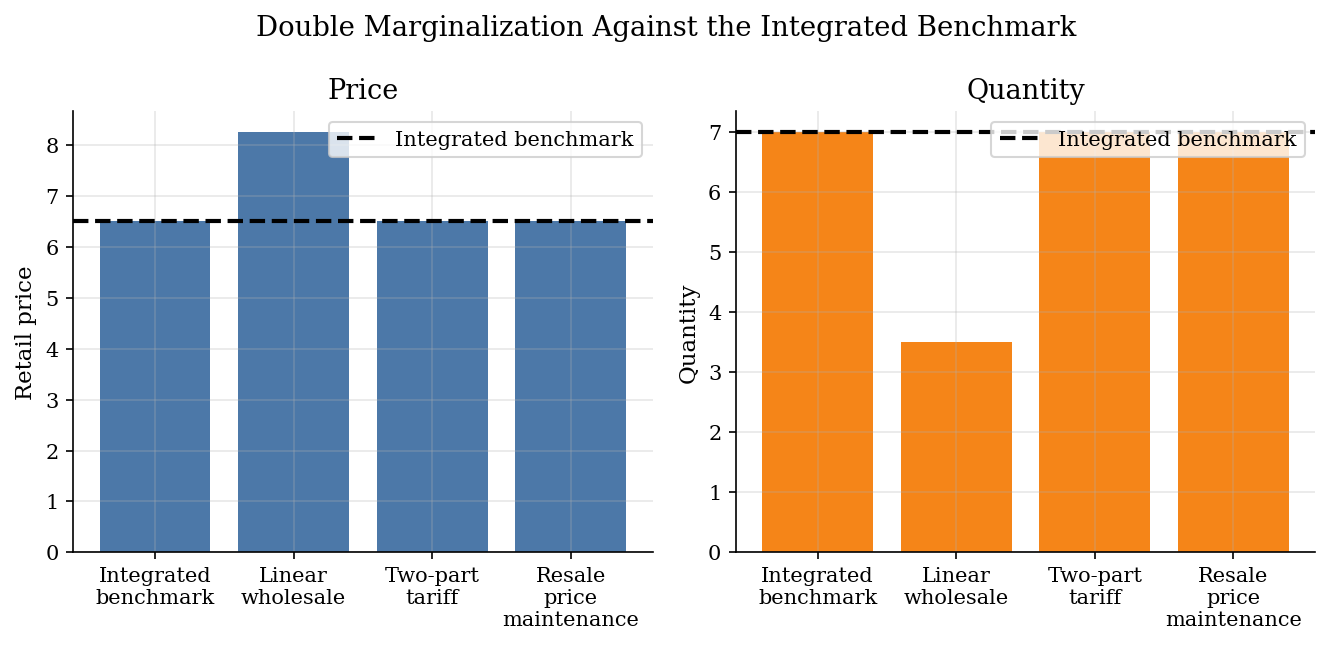
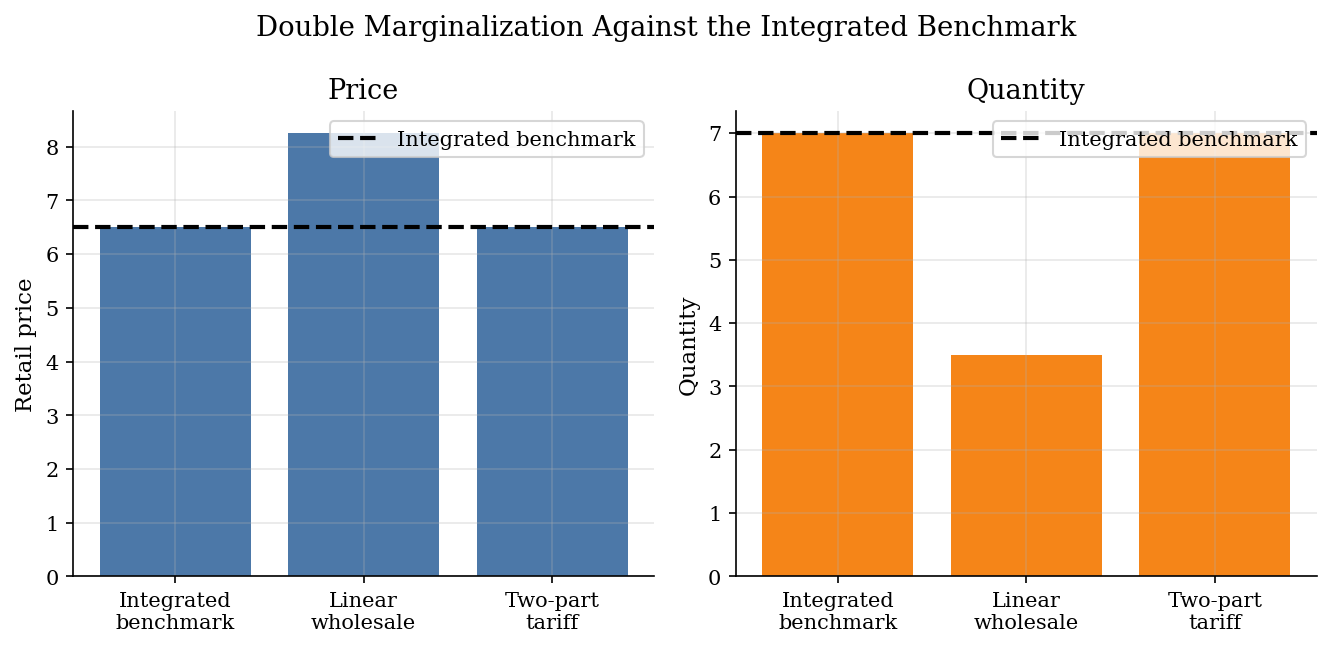
Cut vertical relationships tutorial

diff --git a/industrial-organization/vertical-relationships/run.py b/industrial-organization/vertical-relationships/run.py
@@ -58,7 +58,6 @@ def solve_contracts(a: float, b: float, cm: float, cr: float) -> pd.DataFrame:
         "Integrated benchmark": outcome(monopoly_price, cm, cm, cr, a, b),
         "Linear wholesale": outcome(retail_dm, wholesale_dm, cm, cr, a, b),
         "Two-part tariff": two_part,
-        "Resale price maintenance": outcome(monopoly_price, wholesale_dm, cm, cr, a, b),
     }
 
     rows = []
@@ -98,59 +97,53 @@ def main() -> None:
     )
 
     report.add_overview(
-        "A manufacturer often sells through an independent retailer. The manufacturer "
-        "chooses wholesale terms, the retailer chooses the shelf price, and consumers "
-        "respond to the final price. Both firms may prefer the channel to behave like "
-        "one monopolist, but a linear wholesale price puts the upstream markup inside "
-        "the retailer's marginal cost. The retailer then adds its own markup, and the "
-        "channel sells too little.\n\n"
-        "The example keeps demand linear so the contract comparison stays visible. We "
-        "compute the integrated benchmark, solve the manufacturer-retailer game by "
-        "backward induction, and then evaluate contracts that separate marginal "
-        "incentives from profit transfers. A two-part tariff restores the retail "
-        "pricing incentive with a low per-unit price and uses a fixed fee to allocate "
-        "profit. Resale price maintenance reaches the same retail price by controlling "
-        "the downstream choice directly."
+        "A manufacturer sells through an independent retailer. The manufacturer sets "
+        "wholesale terms. The retailer sets the shelf price. Consumers buy from the "
+        "retailer.\n\n"
+        "The object is double marginalization. A linear wholesale price makes the "
+        "retailer treat the upstream markup as marginal cost. The retailer then adds "
+        "its own markup, so the channel charges too much and sells too little.\n\n"
+        "The computation solves the integrated channel and the separated game. "
+        "Backward induction gives the wholesale price, retail price, quantity, and "
+        "profits under each contract."
     )
 
     report.add_equations(r"""
-Let demand be summarized by the linear quantity rule
+Demand follows
 $$q(p)=a-bp,\qquad p\leq \bar p\equiv a/b,$$
-where $p$ is the retail price, $a$ is market size, $b$ is the demand slope, and
-$\bar p$ is the choke price. The upstream marginal cost is $c_M$ and the
-retailer's own marginal selling cost is $c_R$.
+where $p$ is the retail price. The choke price is $\bar p$. Costs are $c_M$
+upstream and $c_R$ downstream.
 
-The integrated channel chooses $p$ to maximize
+The integrated channel solves
 $$\Pi^I(p)=(p-c_M-c_R)q(p),$$
 so the joint-profit price is
 $$p^I=\frac{\bar p+c_M+c_R}{2}.$$
 
-Under a linear wholesale contract, the manufacturer sets a per-unit wholesale
-price $w$ and the retailer solves
+Under a linear wholesale price $w$, the retailer solves
 $$\max_p\ (p-w-c_R)q(p).$$
-The retailer's best response is
+Its best response is
 $$p_R(w)=\frac{\bar p+w+c_R}{2}.$$
 
-The manufacturer anticipates that response and solves
+The manufacturer chooses $w$ while anticipating that response:
 $$\max_w\ (w-c_M)q(p_R(w)),$$
 which gives
 $$w^{DM}=\frac{\bar p-c_R+c_M}{2}.$$
-Because $w^{DM}>c_M$, the retailer prices as if marginal cost is higher than
-the true channel cost.
 
-A two-part tariff replaces the high marginal wholesale price with
+Because $w^{DM}>c_M$, the retailer acts as if marginal cost is too high.
+
+A two-part tariff sets
 $$w^{TPT}=c_M$$
-and lets the fixed fee
+and uses the fixed fee
 $$F=(p^I-c_M-c_R)q(p^I)$$
-transfer the retailer's operating profit upstream. Resale price maintenance
-sets the retail price at $p^I$ directly; in this calibration the wholesale price
-can then be chosen so the downstream participation constraint binds.
+to transfer operating profit upstream.
+
+The fee changes the profit split without changing the retailer's margin.
 """)
 
     report.add_model_setup(
-        "The calibration is small enough to solve analytically. All dollar amounts "
-        "below are in the same arbitrary unit, and the integrated channel is a "
-        "benchmark rather than an observed ownership structure.\n\n"
+        "The calibration is small enough to solve analytically. Each number uses the "
+        "same unit. The integrated channel is a benchmark, not an ownership "
+        "assumption.\n\n"
         "| Parameter | Value | Description |\n"
         "|-----------|-------|-------------|\n"
         f"| $a$ | {a:.1f} | Demand intercept |\n"
@@ -158,15 +151,12 @@ can then be chosen so the downstream participation constraint binds.
         f"| $\\bar p=a/b$ | {a / b:.1f} | Choke price |\n"
         f"| $c_M$ | {cm:.1f} | Manufacturer marginal cost |\n"
         f"| $c_R$ | {cr:.1f} | Retail service cost |\n"
-        "| Contracts | 4 | Integrated benchmark, linear wholesale, two-part tariff, resale price maintenance |"
+        "| Contracts | 3 | Integrated benchmark, linear wholesale, two-part tariff |"
     )
 
     report.add_solution_method(
-        "Each contract changes which first-order condition determines the retail "
-        "price. The computation solves those conditions in the order the firms move, "
-        "then puts every contract on the same demand curve. That lets the tutorial "
-        "separate an efficiency loss, lower quantity, from a transfer, the fixed fee "
-        "or wholesale margin.\n\n"
+        "The solution follows the order of moves. Each step uses the same demand "
+        "curve, so price and quantity are comparable across contracts.\n\n"
         "```text\n"
         "Inputs: demand q(p)=a-bp, costs c_M and c_R\n"
         "\n"
@@ -180,16 +170,13 @@ can then be chosen so the downstream participation constraint binds.
         "    Manufacturer chooses w_DM to maximize (w-c_M) q(p_R(w))\n"
         "    Evaluate p_R(w_DM), q(p_R(w_DM)), profits, and surplus\n"
         "\n"
-        "3. Contract counterfactuals\n"
+        "3. Two-part tariff\n"
         "    Two-part tariff: set w=c_M, p=p_I, and fixed fee F=(p_I-c_M-c_R)q_I\n"
-        "    Resale price maintenance: set p=p_I and choose w so retailer profit is zero\n"
         "\n"
         "Outputs: contract outcomes and pass-through curve p_R(w)\n"
         "```\n\n"
-        "The integrated solution is the benchmark for the channel's joint-profit "
-        "problem. The backward-induction solution shows how the separated linear "
-        "contract departs from that benchmark, and the counterfactual contracts show "
-        "which part of the departure comes from marginal incentives."
+        "The comparison treats the fixed fee as a transfer. It changes the profit "
+        "split, not the retailer's marginal cost."
     )
 
     x = np.arange(len(df))
@@ -215,31 +202,9 @@ can then be chosen so the downstream participation constraint binds.
         fig1,
         description="The integrated channel charges "
         f"${benchmark['Retail price']:.2f}$ and sells {benchmark['Quantity']:.1f} units. "
-        "The separated linear contract chooses a wholesale price of "
-        f"${linear['Wholesale price']:.2f}$, which pushes the retail price to "
+        "Linear wholesale pricing raises the retail price to "
         f"${linear['Retail price']:.2f}$ and cuts quantity to {linear['Quantity']:.1f}. "
-        "The two-part tariff and resale price maintenance return the retail price to "
-        "the integrated-channel line.",
-    )
-
-    fig2, ax2 = plt.subplots(figsize=(8, 5))
-    ax2.bar(x, df["Consumer surplus"], label="Consumer surplus", color="#54A24B")
-    ax2.bar(x, df["Channel profit"], bottom=df["Consumer surplus"], label="Channel profit", color="#E45756")
-    ax2.axhline(benchmark["Total surplus"], color="black", linestyle="--", label="Integrated total surplus")
-    ax2.set_xticks(x)
-    ax2.set_xticklabels(contract_labels, rotation=0)
-    ax2.set_ylabel("Dollars")
-    ax2.set_title("Surplus Lost When the Channel Under-Sells")
-    ax2.legend()
-    report.add_figure(
-        "figures/surplus-decomposition.png",
-        "Consumer surplus and channel profit by contract",
-        fig2,
-        description="The wholesale margin reallocates profit inside the channel, but "
-        "the welfare loss comes from the smaller quantity sold under the linear "
-        "contract. Once the marginal wholesale price is neutralized, consumer surplus "
-        "and channel profit return to the integrated benchmark in this single-product "
-        "environment.",
+        "The two-part tariff returns price and quantity to the integrated line.",
     )
 
     fig3, axes3 = plt.subplots(1, 2, figsize=(9, 4.2), sharex=True)
@@ -265,10 +230,9 @@ can then be chosen so the downstream participation constraint binds.
         "figures/wholesale-pass-through.png",
         "Retail pass-through as wholesale price changes",
         fig3,
-        description="The pass-through exercise varies only the per-unit wholesale "
-        "price. Moving from $w=c_M$ to $w^{DM}$ traces the double-marginalization "
-        "mechanism: the retailer's best response price rises with perceived marginal "
-        "cost, and the quantity gap opens relative to the integrated benchmark.",
+        description="The wholesale-price sweep varies only $w$. The retailer's best "
+        "response price rises with $w$. At $w^{DM}$, quantity falls below the "
+        "integrated benchmark.",
     )
 
     table = df[
@@ -292,25 +256,20 @@ can then be chosen so the downstream participation constraint binds.
         "tables/vertical-contracts.csv",
         "Contract outcomes",
         table,
-        description="The table separates efficiency from incidence. Channel profit and "
-        "consumer surplus describe the real allocation. Manufacturer and retailer "
-        "profits show how each contract allocates that profit. For the integrated "
-        "benchmark, the internal split is only a transfer convention.",
+        description="The table reports the same comparison in numbers. Channel profit "
+        "and consumer surplus fall only when quantity falls. The fixed fee moves "
+        "operating profit upstream.",
     )
 
     report.add_takeaway(
-        "Vertical contracts matter because they decide which margins affect the retail "
-        "price. A high wholesale price changes the downstream first-order condition "
-        "and creates a real quantity distortion. A fixed fee moves profit without "
-        "changing the retailer's marginal cost. Nonlinear pricing can remove double "
-        "marginalization while still letting the upstream firm collect the channel's "
-        "profit."
+        "Double marginalization comes from the retailer's perceived marginal cost. "
+        "A high wholesale price raises that cost and lowers quantity. A two-part "
+        "tariff sets $w=c_M$, so the retailer chooses the integrated price. The "
+        "fixed fee then allocates profit."
     )
 
     report.add_references([
         "Tirole, J. (1988). *The Theory of Industrial Organization*. MIT Press.",
-        "Asker, J. (2016). Diagnosing Foreclosure Due to Exclusive Dealing. *Journal of Industrial Economics*, 64(3), 375-410.",
-        "Lecture 7 Slides 2023: Vertical relationships, double marginalization, and restraints.",
     ])
     report.write("README.md")
     print(f"Generated: README.md + {len(report._figures)} figures + {len(report._tables)} tables")

diff --git a/industrial-organization/vertical-relationships/README.md b/industrial-organization/vertical-relationships/README.md
@@ -4,47 +4,47 @@
 
 ## Overview
 
-A manufacturer often sells through an independent retailer. The manufacturer chooses wholesale terms, the retailer chooses the shelf price, and consumers respond to the final price. Both firms may prefer the channel to behave like one monopolist, but a linear wholesale price puts the upstream markup inside the retailer's marginal cost. The retailer then adds its own markup, and the channel sells too little.
+A manufacturer sells through an independent retailer. The manufacturer sets wholesale terms. The retailer sets the shelf price. Consumers buy from the retailer.
 
-The example keeps demand linear so the contract comparison stays visible. We compute the integrated benchmark, solve the manufacturer-retailer game by backward induction, and then evaluate contracts that separate marginal incentives from profit transfers. A two-part tariff restores the retail pricing incentive with a low per-unit price and uses a fixed fee to allocate profit. Resale price maintenance reaches the same retail price by controlling the downstream choice directly.
+The object is double marginalization. A linear wholesale price makes the retailer treat the upstream markup as marginal cost. The retailer then adds its own markup, so the channel charges too much and sells too little.
+
+The computation solves the integrated channel and the separated game. Backward induction gives the wholesale price, retail price, quantity, and profits under each contract.
 
 ## Equations
 
-Let demand be summarized by the linear quantity rule
+Demand follows
 $$q(p)=a-bp,\qquad p\leq \bar p\equiv a/b,$$
-where $p$ is the retail price, $a$ is market size, $b$ is the demand slope, and
-$\bar p$ is the choke price. The upstream marginal cost is $c_M$ and the
-retailer's own marginal selling cost is $c_R$.
+where $p$ is the retail price. The choke price is $\bar p$. Costs are $c_M$
+upstream and $c_R$ downstream.
 
-The integrated channel chooses $p$ to maximize
+The integrated channel solves
 $$\Pi^I(p)=(p-c_M-c_R)q(p),$$
 so the joint-profit price is
 $$p^I=\frac{\bar p+c_M+c_R}{2}.$$
 
-Under a linear wholesale contract, the manufacturer sets a per-unit wholesale
-price $w$ and the retailer solves
+Under a linear wholesale price $w$, the retailer solves
 $$\max_p\ (p-w-c_R)q(p).$$
-The retailer's best response is
+Its best response is
 $$p_R(w)=\frac{\bar p+w+c_R}{2}.$$
 
-The manufacturer anticipates that response and solves
+The manufacturer chooses $w$ while anticipating that response:
 $$\max_w\ (w-c_M)q(p_R(w)),$$
 which gives
 $$w^{DM}=\frac{\bar p-c_R+c_M}{2}.$$
-Because $w^{DM}>c_M$, the retailer prices as if marginal cost is higher than
-the true channel cost.
 
-A two-part tariff replaces the high marginal wholesale price with
+Because $w^{DM}>c_M$, the retailer acts as if marginal cost is too high.
+
+A two-part tariff sets
 $$w^{TPT}=c_M$$
-and lets the fixed fee
+and uses the fixed fee
 $$F=(p^I-c_M-c_R)q(p^I)$$
-transfer the retailer's operating profit upstream. Resale price maintenance
-sets the retail price at $p^I$ directly; in this calibration the wholesale price
-can then be chosen so the downstream participation constraint binds.
+to transfer operating profit upstream.
+
+The fee changes the profit split without changing the retailer's margin.
 
 ## Model Setup
 
-The calibration is small enough to solve analytically. All dollar amounts below are in the same arbitrary unit, and the integrated channel is a benchmark rather than an observed ownership structure.
+The calibration is small enough to solve analytically. Each number uses the same unit. The integrated channel is a benchmark, not an ownership assumption.
 
 | Parameter | Value | Description |
 |-----------|-------|-------------|
@@ -53,11 +53,11 @@ The calibration is small enough to solve analytically. All dollar amounts below 
 | $\bar p=a/b$ | 10.0 | Choke price |
 | $c_M$ | 2.0 | Manufacturer marginal cost |
 | $c_R$ | 1.0 | Retail service cost |
-| Contracts | 4 | Integrated benchmark, linear wholesale, two-part tariff, resale price maintenance |
+| Contracts | 3 | Integrated benchmark, linear wholesale, two-part tariff |
 
 ## Solution Method
 
-Each contract changes which first-order condition determines the retail price. The computation solves those conditions in the order the firms move, then puts every contract on the same demand curve. That lets the tutorial separate an efficiency loss, lower quantity, from a transfer, the fixed fee or wholesale margin.
+The solution follows the order of moves. Each step uses the same demand curve, so price and quantity are comparable across contracts.
 
 ```text
 Inputs: demand q(p)=a-bp, costs c_M and c_R
@@ -72,46 +72,38 @@ Inputs: demand q(p)=a-bp, costs c_M and c_R
     Manufacturer chooses w_DM to maximize (w-c_M) q(p_R(w))
     Evaluate p_R(w_DM), q(p_R(w_DM)), profits, and surplus
 
-3. Contract counterfactuals
+3. Two-part tariff
     Two-part tariff: set w=c_M, p=p_I, and fixed fee F=(p_I-c_M-c_R)q_I
-    Resale price maintenance: set p=p_I and choose w so retailer profit is zero
 
 Outputs: contract outcomes and pass-through curve p_R(w)
 ```
 
-The integrated solution is the benchmark for the channel's joint-profit problem. The backward-induction solution shows how the separated linear contract departs from that benchmark, and the counterfactual contracts show which part of the departure comes from marginal incentives.
+The comparison treats the fixed fee as a transfer. It changes the profit split, not the retailer's marginal cost.
 
 ## Results
 
-The integrated channel charges $6.50$ and sells 7.0 units. The separated linear contract chooses a wholesale price of $5.50$, which pushes the retail price to $8.25$ and cuts quantity to 3.5. The two-part tariff and resale price maintenance return the retail price to the integrated-channel line.
+The integrated channel charges $6.50$ and sells 7.0 units. Linear wholesale pricing raises the retail price to $8.25$ and cuts quantity to 3.5. The two-part tariff returns price and quantity to the integrated line.
 
 <img src="figures/price-quantity.png" alt="Price and quantity by vertical contract" width="80%">
 
-The wholesale margin reallocates profit inside the channel, but the welfare loss comes from the smaller quantity sold under the linear contract. Once the marginal wholesale price is neutralized, consumer surplus and channel profit return to the integrated benchmark in this single-product environment.
-
-<img src="figures/surplus-decomposition.png" alt="Consumer surplus and channel profit by contract" width="80%">
-
-The pass-through exercise varies only the per-unit wholesale price. Moving from $w=c_M$ to $w^{DM}$ traces the double-marginalization mechanism: the retailer's best response price rises with perceived marginal cost, and the quantity gap opens relative to the integrated benchmark.
+The wholesale-price sweep varies only $w$. The retailer's best response price rises with $w$. At $w^{DM}$, quantity falls below the integrated benchmark.
 
 <img src="figures/wholesale-pass-through.png" alt="Retail pass-through as wholesale price changes" width="80%">
 
-The table separates efficiency from incidence. Channel profit and consumer surplus describe the real allocation. Manufacturer and retailer profits show how each contract allocates that profit. For the integrated benchmark, the internal split is only a transfer convention.
+The table reports the same comparison in numbers. Channel profit and consumer surplus fall only when quantity falls. The fixed fee moves operating profit upstream.
 
 **Contract outcomes**
 
-| Contract                 |   Retail price |   Wholesale price |   Fixed fee |   Quantity |   Channel profit |   Consumer surplus |   Total surplus |   Manufacturer profit |   Retailer profit |
-|:-------------------------|---------------:|------------------:|------------:|-----------:|-----------------:|-------------------:|----------------:|----------------------:|------------------:|
-| Integrated benchmark     |           6.5  |               2   |         0   |        7   |            24.5  |              12.25 |           36.75 |                  0    |             24.5  |
-| Linear wholesale         |           8.25 |               5.5 |         0   |        3.5 |            18.38 |               3.06 |           21.44 |                 12.25 |              6.12 |
-| Two-part tariff          |           6.5  |               2   |        24.5 |        7   |            24.5  |              12.25 |           36.75 |                 24.5  |              0    |
-| Resale price maintenance |           6.5  |               5.5 |         0   |        7   |            24.5  |              12.25 |           36.75 |                 24.5  |              0    |
+| Contract             |   Retail price |   Wholesale price |   Fixed fee |   Quantity |   Channel profit |   Consumer surplus |   Total surplus |   Manufacturer profit |   Retailer profit |
+|:---------------------|---------------:|------------------:|------------:|-----------:|-----------------:|-------------------:|----------------:|----------------------:|------------------:|
+| Integrated benchmark |           6.5  |               2   |         0   |        7   |            24.5  |              12.25 |           36.75 |                  0    |             24.5  |
+| Linear wholesale     |           8.25 |               5.5 |         0   |        3.5 |            18.38 |               3.06 |           21.44 |                 12.25 |              6.12 |
+| Two-part tariff      |           6.5  |               2   |        24.5 |        7   |            24.5  |              12.25 |           36.75 |                 24.5  |              0    |
 
 ## Takeaway
 
-Vertical contracts matter because they decide which margins affect the retail price. A high wholesale price changes the downstream first-order condition and creates a real quantity distortion. A fixed fee moves profit without changing the retailer's marginal cost. Nonlinear pricing can remove double marginalization while still letting the upstream firm collect the channel's profit.
+Double marginalization comes from the retailer's perceived marginal cost. A high wholesale price raises that cost and lowers quantity. A two-part tariff sets $w=c_M$, so the retailer chooses the integrated price. The fixed fee then allocates profit.
 
 ## References
 
 - Tirole, J. (1988). *The Theory of Industrial Organization*. MIT Press.
-- Asker, J. (2016). Diagnosing Foreclosure Due to Exclusive Dealing. *Journal of Industrial Economics*, 64(3), 375-410.
-- Lecture 7 Slides 2023: Vertical relationships, double marginalization, and restraints.

diff --git a/README.md b/README.md
@@ -93,7 +93,7 @@ The IO section covers firm boundaries, vertical relationships, demand, pricing, 
 | Preview | Tutorial | Description |
 |---|---|---|
 | [<img src="industrial-organization/theory-of-the-firm/figures/thumb.png" width="160">](industrial-organization/theory-of-the-firm/figures/investment-incentives.png) | **[Firm Boundaries, Hold-Up, and Vertical Integration](industrial-organization/theory-of-the-firm/)** | Study when ownership should move inside the firm for relationship-specific investment. A grid comparison weighs incentive gains against contracting and hierarchy costs. |
-| [<img src="industrial-organization/vertical-relationships/figures/thumb.png" width="160">](industrial-organization/vertical-relationships/figures/price-quantity.png) | **[Double Marginalization in Vertical Supply Chains](industrial-organization/vertical-relationships/)** | Compare a manufacturer-retailer channel with the integrated benchmark. Backward induction shows how linear wholesale pricing raises perceived marginal cost, while a two-part tariff restores quantity through a fixed fee. |
+| [<img src="industrial-organization/vertical-relationships/figures/thumb.png" width="160">](industrial-organization/vertical-relationships/figures/price-quantity.png) | **[Double Marginalization in Vertical Supply Chains](industrial-organization/vertical-relationships/)** | Study a manufacturer-retailer channel against the integrated benchmark. Backward induction shows how a linear wholesale price raises retailer marginal cost, while a two-part tariff fixes the pricing margin. |
 | [<img src="industrial-organization/vertical-contracts/figures/thumb.png" width="160">](industrial-organization/vertical-contracts/figures/assortment-selection.png) | **[Vending Assortments Under Vertical Contracts](industrial-organization/vertical-contracts/)** | Study how rebates and slotting fees affect product availability in a vending channel. Exact enumeration compares the retailer's preferred assortment under each contract. |
 | [<img src="industrial-organization/bertrand-logit-demand/figures/thumb.png" width="160">](industrial-organization/bertrand-logit-demand/figures/price-comparison.png) | **[Differentiated-Products Merger Pricing with Logit Demand](industrial-organization/bertrand-logit-demand/)** | Study how common ownership changes markups in a four-product market. A logit-demand Bertrand FOC solve turns diversion and cost efficiencies into counterfactual prices. |
 | [<img src="industrial-organization/logit-supply-side/figures/thumb.png" width="160">](industrial-organization/logit-supply-side/figures/estimation-comparison.png) | **[Cereal Demand and Markup Recovery from Prices](industrial-organization/logit-supply-side/)** | Recover markups and marginal costs in a differentiated-products market with endogenous prices. Berry inversion, IV/2SLS, and Bertrand-Nash pricing FOCs connect shares, ownership, and prices to costs. |
